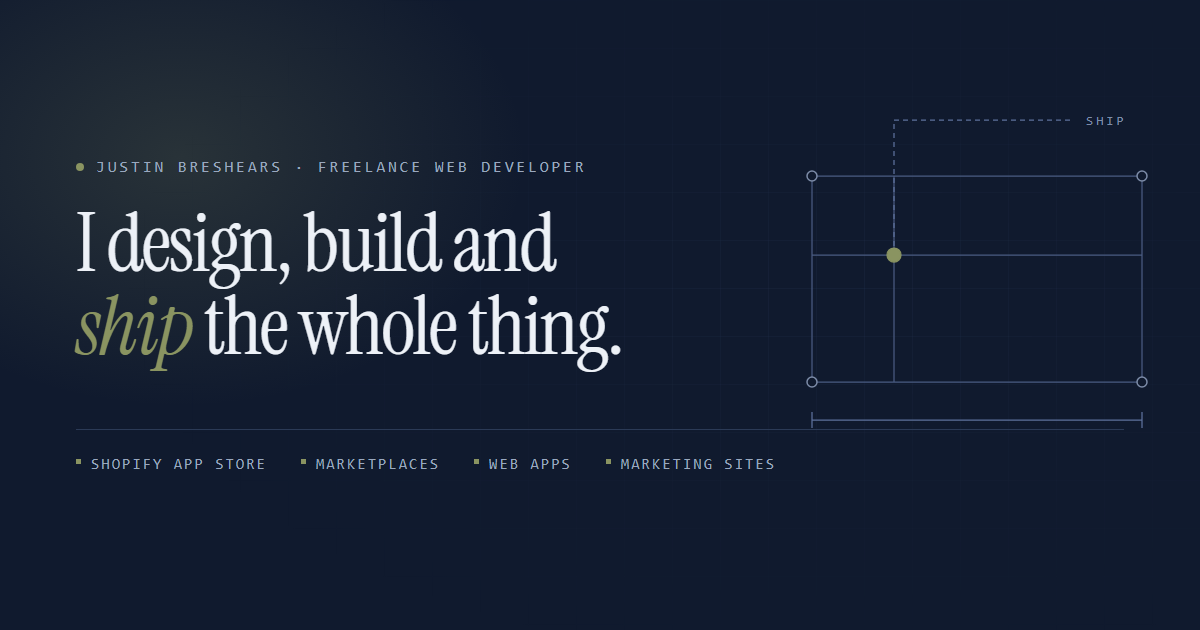
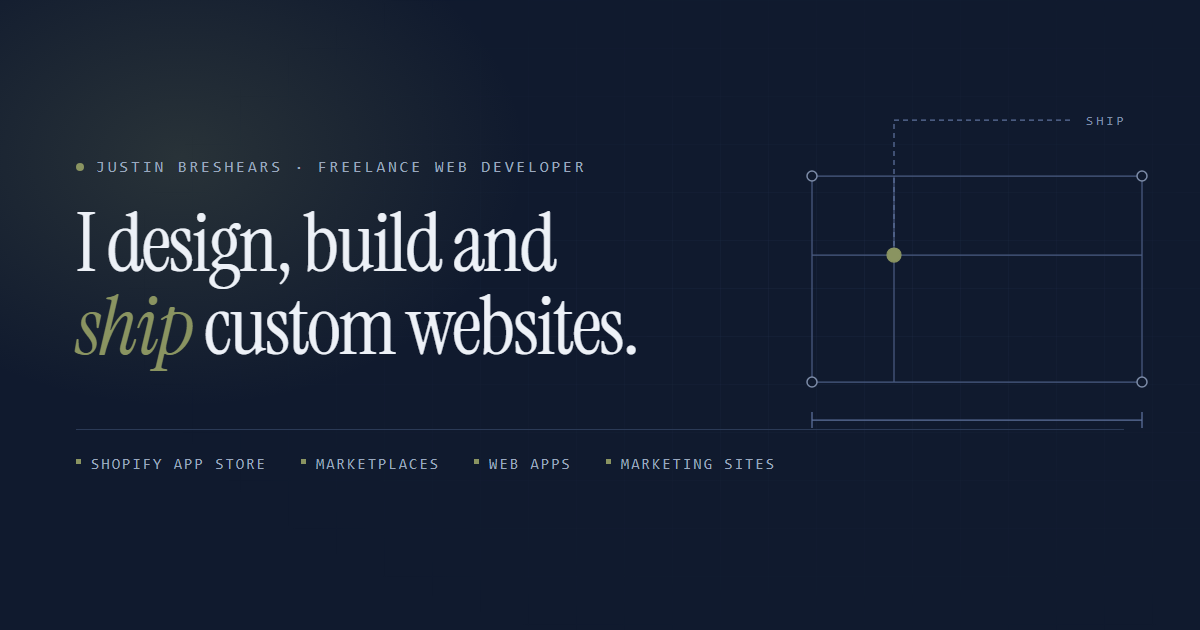
Headline: "custom websites"; the olive dot now surveys the plan
Headline is now "I design, build and ship custom websites." — concrete about
what the work is rather than "the whole thing". OG card regenerated to match.

Replaces the tracer dash, node ping and marching leader with a single moving
element: the olive dot itself leaves the intersection, walks the plate — every
segment running along a line that is actually drawn — touches all four corner
nodes, and comes home. 22s, linear.

Keyframe percentages are proportional to segment length
(96 · 96 · 240 · 384 · 240 · 288 · 96 = 1440 units), so linear timing gives
genuinely constant speed rather than visibly hurrying the short legs.

Two things the rule had to get right, both verified rather than assumed:
- It carries .plan__draw and sits after the .nd pop rule, or it loses on
  specificity and the dot silently never moves.
- It animates `translate`, not `transform`, so the walk composes with the
  pop-in's scale instead of replacing it.

Resting state is unchanged: translate:none puts the dot back at the
intersection, so reduced-motion and no-JS render exactly as before — verified
at zero running animations. Still parked by IntersectionObserver off-screen.

Verified by sampling the dot's real screen position across a full circuit:
x 771→1224, y 223→519, tracing the plate outline. Contrast still 40/40 AA.

Changed region(s): [[0.1542, 0.4524, 0.5242, 0.6032]]

diff --git a/styles.css b/styles.css
@@ -392,23 +392,6 @@ img, picture, svg { display: block; max-width: 100%; }
 .pl--lead { stroke: #5D719C; stroke-dasharray: 5 4; }
 .nd { fill: #101A2E; stroke: #7D8CA8; stroke-width: 1.5; }
 .nd--live { fill: #8A9461; stroke: #8A9461; }
-/* Tracer + node ring: resting state is invisible, so with motion off or JS
-   dead they add nothing rather than sitting there as stray marks. */
-.tr {
-  fill: none;
-  stroke: var(--accent);
-  stroke-width: 2.5;
-  stroke-linecap: round;
-  opacity: 0;
-}
-.ndr {
-  fill: none;
-  stroke: var(--accent);
-  stroke-width: 1.5;
-  opacity: 0;
-  transform-box: fill-box;
-  transform-origin: center;
-}
 .pl__label {
   font-family: var(--f-mono);
   font-size: 13px;
@@ -867,38 +850,12 @@ img, picture, svg { display: block; max-width: 100%; }
     to   { stroke-dashoffset: 0; }
   }
 
-  /* Leader fades in, then its dashes march toward SHIP. Shifting a periodic
-     pattern by exactly one period (5 + 4) loops with no visible seam. */
-  html:not(.reduced-motion) .pl--lead {
-    animation: fade .5s var(--ease-decisive) both .75s,
-               march 1s linear infinite 1.25s;
-  }
+  html:not(.reduced-motion) .pl--lead { animation: fade .5s var(--ease-decisive) both .75s; }
   @keyframes fade { from { opacity: 0; } to { opacity: 1; } }
-  @keyframes march { to { stroke-dashoffset: -9px; } }
-
-  /* One short dash walking the plate outline. --len comes from JS, so the
-     travel distance is exactly the path length and the loop is seamless. */
-  html:not(.reduced-motion) .tr {
-    opacity: 1;
-    animation: trace 9s linear infinite 1.35s;
-  }
-  @keyframes trace {
-    from { stroke-dashoffset: 0; }
-    to   { stroke-dashoffset: calc(var(--len, 1240) * -1px); }
-  }
-
-  /* Slow ping off the live node. */
-  html:not(.reduced-motion) .ndr { animation: ping 3.6s var(--ease-decisive) infinite 1.6s; }
-  @keyframes ping {
-    0%        { transform: scale(1);   opacity: .55; }
-    70%, 100% { transform: scale(3.4); opacity: 0; }
-  }
 
   /* Infinite motion is an infinite repaint: park it once the hero is off
      screen rather than animating behind the rest of the page. */
-  .hero__plan.is-idle .tr,
-  .hero__plan.is-idle .ndr,
-  .hero__plan.is-idle .pl--lead,
+  .hero__plan.is-idle .plan__draw .nd--live,
   .hero__plan.is-idle .plan__draw { animation-play-state: paused; }
   html:not(.reduced-motion) .plan__draw .nd {
     animation: pop .5s var(--ease-spring) both;
@@ -906,6 +863,32 @@ img, picture, svg { display: block; max-width: 100%; }
   }
   @keyframes pop { from { opacity: 0; transform: scale(.4); } to { opacity: 1; transform: scale(1); } }
   .plan__draw .nd { transform-box: fill-box; transform-origin: center; }
+
+  /* THE SURVEYOR. The olive dot leaves the intersection, walks the plate —
+     every segment running along a line that is actually drawn — touches all
+     four corner nodes, and comes home. Keyframe percentages are proportional
+     to segment length (96 · 96 · 240 · 384 · 240 · 288 · 96 = 1440 units) so a
+     linear timing function gives genuinely constant speed instead of visibly
+     hurrying the short legs.
+
+     Two things this selector has to get right: it must carry `.plan__draw` so
+     it is not outranked by the `.nd` pop rule above, and it must sit AFTER
+     that rule to win the tie. `translate` is used rather than `transform` so
+     the walk composes with the pop-in's scale instead of replacing it. */
+  html:not(.reduced-motion) .plan__draw .nd--live {
+    animation: pop .5s var(--ease-spring) both calc(480ms + var(--i, 0) * 90ms),
+               survey 22s linear infinite 1.6s;
+  }
+  @keyframes survey {
+    0%     { translate: 0 0; }
+    6.67%  { translate: 0 -96px; }
+    13.33% { translate: -96px -96px; }
+    30%    { translate: -96px 144px; }
+    56.67% { translate: 288px 144px; }
+    73.33% { translate: 288px -96px; }
+    93.33% { translate: 0 -96px; }
+    100%   { translate: 0 0; }
+  }
 
   /* Pointer response — the plan notices the cursor. Capped at 10px. */
   html:not(.reduced-motion) .plan__draw {

diff --git a/index.html b/index.html
@@ -110,13 +110,12 @@
             <path class="pl pl--dim" d="M648 452h384M648 444v16M1032 444v16" />
             <path class="pl pl--dim" d="M1076 168v240M1068 168h16M1068 408h16" />
             <path class="pl pl--lead" d="M744 264V108h224" />
-            <!-- tracer: one short dash walking the plate outline, forever -->
-            <rect class="tr" x="648" y="168" width="384" height="240" rx="4" />
             <circle class="nd" cx="648" cy="168" r="5" style="--i:0" />
             <circle class="nd" cx="1032" cy="168" r="5" style="--i:1" />
             <circle class="nd" cx="648" cy="408" r="5" style="--i:2" />
             <circle class="nd" cx="1032" cy="408" r="5" style="--i:3" />
-            <circle class="ndr" cx="744" cy="264" r="7" />
+            <!-- the surveyor: leaves the intersection, walks every corner node
+                 along lines that already exist, comes home. See @keyframes survey. -->
             <circle class="nd nd--live" cx="744" cy="264" r="7" style="--i:4" />
             <text class="pl__label" x="840" y="474">SPEC</text>
             <text class="pl__label" x="1096" y="292">BUILD</text>
@@ -131,7 +130,7 @@
           Available for new projects &middot; Texas, USA &middot; Remote
         </p>
 
-        <h1 class="hero__title" data-split>I design, build and <span class="hl">ship</span> the whole thing.</h1>
+        <h1 class="hero__title" data-split>I design, build and <span class="hl">ship</span> custom websites.</h1>
 
         <p class="hero__sub">
           I'm Justin — a freelance developer who takes a project from the first

diff --git a/script.js b/script.js
@@ -101,17 +101,9 @@
     var plan = $(".hero__plan");
     if (!plan || !motionOK) return;
 
-    each($$(".plan__draw .pl, .plan__draw .tr", plan), function (el) {
+    each($$(".plan__draw .pl", plan), function (el) {
       if (typeof el.getTotalLength !== "function") return;
-      try {
-        var len = Math.ceil(el.getTotalLength());
-        el.style.setProperty("--len", String(len));
-        /* The tracer is a single short dash with a gap covering the rest of
-           the outline, so exactly one dot travels the path at a time. */
-        if (el.classList.contains("tr")) {
-          el.style.strokeDasharray = 42 + " " + Math.max(1, len - 42);
-        }
-      } catch (e) {}
+      try { el.style.setProperty("--len", String(Math.ceil(el.getTotalLength()))); } catch (e) {}
     });
 
     /* Park the looping animations while the hero is off screen. */
